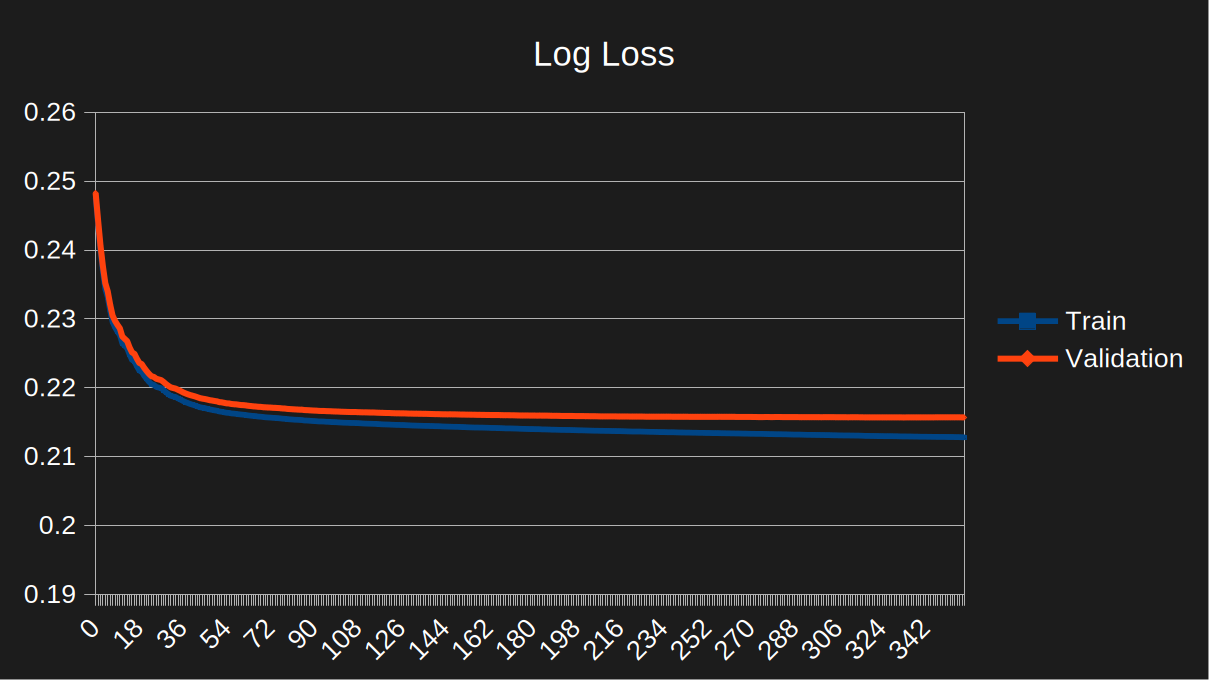
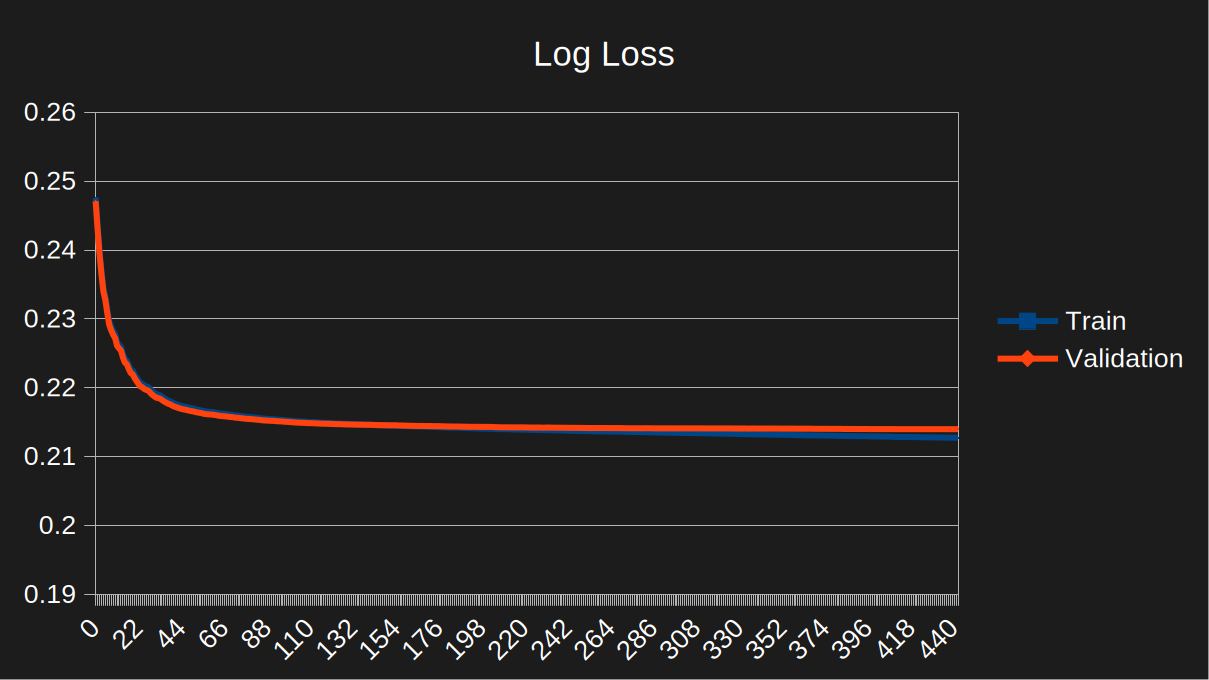
updated xgoals model to remove calibration and updated model results from the model update

Changed region(s): [[0.0612, 0.8647, 0.7957, 0.9882], [0.0612, 0.2779, 0.7957, 0.6485]]

diff --git a/backend/nhl/xgoals.py b/backend/nhl/xgoals.py
@@ -1,8 +1,6 @@
 from utility import REGISTRY, Table
 from sklearn.model_selection import train_test_split
 from sklearn.metrics import classification_report, confusion_matrix, roc_auc_score, log_loss
-from sklearn.calibration import CalibratedClassifierCV
-from sklearn.frozen import FrozenEstimator
 from xgboost.sklearn import XGBClassifier
 import joblib
 import numpy
@@ -12,7 +10,6 @@ class xGoals(Table):
     def request(self, params: dict = {}, train = False):
         params.update({"train": 'train'}) if train else params.update({"train": None})
         self.prefix = params.setdefault('type', None)
-        self.scale = params.setdefault('scale', None)
         params.setdefault('grace', 5)
         params.setdefault('decay', 1)
         super().request(params)
@@ -26,32 +23,26 @@ class xGoals(Table):
         input_train, input_validation, output_train, output_validation = train_test_split(
             data[:, 4:data.shape[1] - 1], 
             data[:, -1].astype(int), 
-            test_size=0.4
+            test_size=0.3
         )
 
         input_validation, input_test, output_validation, output_test = train_test_split(
-            input_validation, 
-            output_validation, 
-            test_size=0.25
-        )
-
-        input_validation, input_calibration, output_validation, output_calibration = train_test_split(
             input_validation, 
             output_validation, 
             test_size=0.5
         )
 
         model = XGBClassifier(
-            scale_pos_weight=float(self.scale) if self.scale else 1, # Balances class imbalances
+            scale_pos_weight=1, # Balances class imbalances (1 makes no change)
             eval_metric='logloss', # Performance evaluation metric
             reg_lambda=1, # Penalizes large weights
             max_depth=4, # Max tree depth. Higher depth risks overfitting
             learning_rate=0.1, # Shrinks each tree's contribution
-            n_estimators=500, # Number of trees to build
+            n_estimators=1000, # Number of trees to build
             subsample=0.8, # Fraction of training samples used per tree. Adds randomness by changing samples
             colsample_bytree=0.8, # Fraction of features used per sample. Adds randomness by changing sample features
             min_child_weight=10, # Min sum of weights in a child node
-            early_stopping_rounds=25 # Introduces early stopping if metric does not improve after n epochs
+            early_stopping_rounds=25 # Introduces early stopping if metric does not improve after n estimators
         )
         
         model.fit(
@@ -60,22 +51,15 @@ class xGoals(Table):
             eval_set=[ (input_train, output_train), (input_validation, output_validation) ]
         )
 
-        print('\n'.join(f"{feature}: {weight:.5f}" for feature, weight in sorted(zip([key for key in list(self.data[0].keys())[4:data.shape[1] - 1]], model.feature_importances_), key=lambda x: x[1], reverse=True)))
-
-        model = CalibratedClassifierCV(
-            FrozenEstimator(model),
-            method='isotonic'
-        )
-        
-        model.fit(input_calibration, output_calibration)
-
         predictions = model.predict(input_test)
         probabilities = model.predict_proba(input_test)
         
+        print('\n'.join(f"{feature}: {weight:.5f}" for feature, weight in sorted(zip([key for key in list(self.data[0].keys())[4:data.shape[1] - 1]], model.feature_importances_), key=lambda x: x[1], reverse=True)))
         print(classification_report(output_test, predictions))
         print(confusion_matrix(output_test, predictions))
         print("Loss:", log_loss(output_test, probabilities[:, 1]))
         print("ROC AUC:", roc_auc_score(output_test, probabilities[:, 1]))
+        print(f"Calibration: {(100 * probabilities[:, 1].sum() / output_test.sum()) - 100}%")
 
         joblib.dump(model, f"/models/{self.prefix}-xgoals.gz" if self.prefix else "/models/xgoals.gz")
         self.response.close()

diff --git a/README.md b/README.md
@@ -55,7 +55,7 @@ We have selected 20 features for our first xGoals model, all of which we feel ha
 | Y Flip         | If a shot and its previous event crossed the vector between both goals. |
 
 ## Model Pipeline
-In case you missed it from earlier, for our model we used the xGoals gold standard: XGBoost—we love how fitting that name is. Our pipeline is pretty basic, the main thing worth noting is that our data is split into four sets: 60% train, 15% for both validation and calibration, then 10% for our test set. Four splits seem a bit odd but it was necessary to avoid leakage of the test set data into our model during its calibration, so we added a dedicated calibration set. XGBoost can push probabilities toward the extremes, so calibration is necessary to ensure that these probabilities are pulled back to more realistic values.
+In case you missed it from earlier, for our model we used the xGoals gold standard: XGBoost—we love how fitting that name is. Our pipeline is pretty basic, the main thing worth noting is that our data is split into three sets: 70% train, 15% validation, and 15% test.
 
 The only other thing worth mentioning is that our pipeline can be pretty flexible when defining our scope of data to use for training. We can tell it to train one model for all situations or train situation-specific models, and we can tell it to use our full history of samples or to favor more recent samples. We narrowed things down to two approaches: all situations in one model, and three models split between full strength situations, special teams, and empty net situations.
 
@@ -64,9 +64,9 @@ Before we present our results, we want to set expectations by stating that our r
 
 Surprisingly, we found the best results came from one model for all situations and seasons. Perhaps there really should be "one model to rule them all." We added a few features to help the model distinguish different game situations—such as the shooting team's advantage, total skaters on the ice, and empty net status—so we feel confident that our model could accurately adjust for those changes in gameplay. One area for improvement is that all seasons were weighted equally, so there is a risk that seasons with API or rule changes affecting shot quality are misrepresented.
 
-We can see from the below graph that our model's training and validation loss converged closely and consistently, differing by just 0.003 log loss on the 358th iteration: ![Loss Curve](images/fit.png)
+We can see from the below graph that our model's training and validation loss converged closely and consistently, differing by just `0.001 Log Loss` on the best iteration: ![Loss Curve](images/fit.png)
 
-When testing the model on our test set, it achieved a `0.21468 Log Loss`, and a `0.78206 AUC`—which are the results we expect based on the training and validation set results. We also feel that this shows our model is competitive with some of the more reputable models that exist at the time of this writing, especially when we consider the limitations we placed on our feature set.
+When testing the model on our test set, it achieved a `0.21439 Log Loss`, `0.78043 AUC`, and a `100.45% Calibration`—which are the results we expect based on the training and validation set results. We also feel that this shows our model is competitive with some of the more reputable models that exist at the time of this writing, especially when we consider the limitations we placed on our feature set.
 
 As for our feature importances, we see the same pattern as many other models. Empty nets, rebounds, and shot distance are our most important features. We also noticed that the model found the count of total skaters on the ice to be the fourth most important feature, which suggests it appropriately adjusts for the diversity in strengths. If you need a reference as to what each feature means, please reference our [Feature Dictionary](#feature-dictionary) that was presented earlier. ![Feature Importances](images/importance.png)
 
@@ -75,86 +75,86 @@ Finally, we will present the seasonal results of our model. Unfortunately, these
 **All Strengths:**
 | Season | Difference | Calibration | Log Loss | AUC |
 |--------|------------|-------------|----------|-----|
-|20252026| 247.78     | 2.81        | 0.237    |0.756|
-|20242025| -156.46    | -1.82       | 0.227    |0.768|
-|20232024| -6.37      | -0.07       | 0.224    |0.77 |
-|20222023| 90.39      | 1           | 0.232    |0.763|
-|20212022| -71.99     | -0.81       | 0.223    |0.767|
-|20202021| -164.23    | -2.91       | 0.218    |0.781|
-|20192020| -83.91     | -1.14       | 0.218    |0.778|
-|20182019| -433.02    | -5.25       | 0.219    |0.774|
-|20172018| -289.71    | -3.54       | 0.218    |0.775|
-|20162017| -48.57     | -0.66       | 0.216    |0.779|
-|20152016| 28.17      | 0.39        | 0.213    |0.782|
-|20142015| 0.68       | 0.01        | 0.208    |0.778|
-|20132014| -45.22     | -0.6        | 0.21     |0.779|
-|20122013| -78.69     | -1.76       | 0.209    |0.777|
-|20112012| -32.02     | -0.43       | 0.207    |0.784|
-|20102011| 14.99      | 0.2         | 0.216    |0.778|
+|20252026| 340.83     | 3.86        | 0.236    |0.768|
+|20242025| -60.55     | -0.7        | 0.226    |0.779|
+|20232024| 85.79      | 0.98        | 0.223    |0.782|
+|20222023| 185.47     | 2.05        | 0.231    |0.774|
+|20212022| 9.7        | 0.11        | 0.223    |0.779|
+|20202021| -112.72    | -2          | 0.217    |0.792|
+|20192020| -16.67     | -0.23       | 0.218    |0.79 |
+|20182019| -363.25    | -4.4        | 0.218    |0.786|
+|20172018| -217.03    | -2.65       | 0.217    |0.786|
+|20162017| 10.36      | 0.14        | 0.215    |0.789|
+|20152016| 86.62      | 1.19        | 0.212    |0.792|
+|20142015| 51.65      | 0.7         | 0.207    |0.789|
+|20132014| 0.09       | 0           | 0.208    |0.79 |
+|20122013| -51.21     | -1.14       | 0.208    |0.787|
+|20112012| 20.96      | 0.28        | 0.206    |0.795|
+|20102011| 65.35      | 0.87        | 0.215    |0.789|
 
 **Full Strength (5v5 with both goalies) Results:**
 | Season | Difference | Calibration | Log Loss | AUC |
 |--------|------------|-------------|----------|-----|
-|20252026| 9.26       | 0.16        | 0.21     |0.752|
-|20242025| -94.87     | -1.7        | 0.2      |0.762|
-|20232024| -57.09     | -1.01       | 0.199    |0.768|
-|20222023| 129.3      | 2.23        | 0.207    |0.757|
-|20212022| -34.16     | -0.58       | 0.201    |0.76 |
-|20202021| -50.13     | -1.36       | 0.194    |0.777|
-|20192020| -32.88     | -0.69       | 0.195    |0.774|
-|20182019| -207.84    | -3.84       | 0.192    |0.771|
-|20172018| -100.03    | -1.92       | 0.192    |0.768|
-|20162017| 29.41      | 0.61        | 0.194    |0.774|
-|20152016| 106.12     | 2.32        | 0.19     |0.775|
-|20142015| -21.63     | -0.46       | 0.185    |0.77 |
-|20132014| -56.41     | -1.19       | 0.188    |0.77 |
-|20122013| -12.4      | -0.43       | 0.187    |0.768|
-|20112012| -7.09      | -0.15       | 0.186    |0.775|
-|20102011| -4.53      | -0.1        | 0.187    |0.776|
+|20252026| 50.27      | 0.89        | 0.209    |0.764|
+|20242025| -47.81     | -0.86       | 0.199    |0.773|
+|20232024| -8.27      | -0.15       | 0.198    |0.78 |
+|20222023| 175.17     | 3.02        | 0.207    |0.768|
+|20212022| 4.56       | 0.08        | 0.201    |0.772|
+|20202021| -25.51     | -0.69       | 0.193    |0.788|
+|20192020| -0.39      | -0.01       | 0.195    |0.786|
+|20182019| -169.22    | -3.13       | 0.191    |0.782|
+|20172018| -65.43     | -1.26       | 0.19     |0.779|
+|20162017| 58.37      | 1.22        | 0.193    |0.785|
+|20152016| 133.09     | 2.92        | 0.189    |0.785|
+|20142015| 6.72       | 0.14        | 0.185    |0.781|
+|20132014| -29.22     | -0.62       | 0.186    |0.782|
+|20122013| 2.37       | 0.08        | 0.186    |0.779|
+|20112012| 21.71      | 0.46        | 0.185    |0.785|
+|20102011| 21.97      | 0.46        | 0.186    |0.786|
 
 **Special Teams (all strengths except full strength and empty net) Results:**
 | Season | Difference | Calibration | Log Loss | AUC |
 |--------|------------|-------------|----------|-----|
-|20252026| 205.06     | 7.84        | 0.31     |0.693|
-|20242025| -48.84     | -1.98       | 0.31     |0.698|
-|20232024| 68.28      | 2.58        | 0.298    |0.706|
-|20222023| -24.73     | -0.9        | 0.303    |0.711|
-|20212022| 2.25       | 0.09        | 0.291    |0.713|
-|20202021| -89.71     | -5.42       | 0.29     |0.727|
-|20192020| -64.39     | -2.9        | 0.282    |0.732|
-|20182019| -191.98    | -7.98       | 0.302    |0.712|
-|20172018| -164.31    | -6.35       | 0.301    |0.729|
-|20162017| -62.75     | -2.75       | 0.289    |0.73 |
-|20152016| -47.76     | -2.06       | 0.283    |0.735|
-|20142015| 30.4       | 1.29        | 0.275    |0.746|
-|20132014| 7.2        | 0.29        | 0.272    |0.751|
-|20122013| -53.31     | -3.66       | 0.278    |0.749|
-|20112012| 0.81       | 0.03        | 0.268    |0.761|
-|20102011| 19.38      | 0.76        | 0.275    |0.742|
+|20252026| 243.02     | 9.3         | 0.31     |0.709|
+|20242025| -16.3      | -0.66       | 0.308    |0.714|
+|20232024| 99.09      | 3.75        | 0.298    |0.722|
+|20222023| 11.85      | 0.43        | 0.302    |0.727|
+|20212022| 38.74      | 1.51        | 0.291    |0.728|
+|20202021| -69.14     | -4.18       | 0.289    |0.742|
+|20192020| -40.21     | -1.81       | 0.282    |0.747|
+|20182019| -168.05    | -6.99       | 0.299    |0.727|
+|20172018| -137.36    | -5.31       | 0.3      |0.744|
+|20162017| -38.37     | -1.68       | 0.288    |0.745|
+|20152016| -23.29     | -1          | 0.282    |0.749|
+|20142015| 44.11      | 1.88        | 0.274    |0.759|
+|20132014| 19.88      | 0.79        | 0.272    |0.766|
+|20122013| -43.8      | -3.01       | 0.277    |0.761|
+|20112012| 18.56      | 0.76        | 0.267    |0.775|
+|20102011| 37.22      | 1.46        | 0.273    |0.756|
 
 **Empty Net (all strengths shooting on an empty net) Results:**
 | Season | Difference | Calibration | Log Loss | AUC |
 |--------|------------|-------------|----------|-----|
-|20252026| 33.47      | 6.13        | 0.789    |0.729|
-|20242025| -12.74     | -2.24       | 0.725    |0.658|
-|20232024| -17.56     | -3.62       | 0.742    |0.683|
-|20222023| -14.18     | -3.06       | 0.749    |0.677|
-|20212022| -40.08     | -7.71       | 0.655    |0.622|
-|20202021| -24.39     | -8.35       | 0.91     |0.582|
-|20192020| 13.37      | 3.75        | 0.844    |0.61 |
-|20182019| -33.2      | -7.56       | 0.877    |0.616|
-|20172018| -25.37     | -6.57       | 0.617    |0.567|
-|20162017| -15.24     | -4.85       | 0.584    |0.629|
-|20152016| -30.19     | -7.64       | 0.583    |0.632|
-|20142015| -8.09      | -2.56       | 0.679    |0.573|
-|20132014| 4.99       | 2.01        | 0.599    |0.635|
-|20122013| -12.98     | -8.83       | 0.573    |0.64 |
-|20112012| -25.73     | -10.05      | 0.595    |0.598|
-|20102011| 0.14       | 0.06        | 0.603    |0.597|
+|20252026| 47.53      | 8.71        | 0.789    |0.789|
+|20242025| 3.56       | 0.63        | 0.713    |0.758|
+|20232024| -5.03      | -1.04       | 0.737    |0.752|
+|20222023| -1.56      | -0.34       | 0.742    |0.75 |
+|20212022| -33.6      | -6.46       | 0.655    |0.718|
+|20202021| -18.08     | -6.19       | 0.903    |0.669|
+|20192020| 23.93      | 6.72        | 0.844    |0.688|
+|20182019| -25.99     | -5.92       | 0.88     |0.697|
+|20172018| -14.24     | -3.69       | 0.62     |0.649|
+|20162017| -9.64      | -3.07       | 0.578    |0.718|
+|20152016| -23.18     | -5.87       | 0.576    |0.74 |
+|20142015| 0.82       | 0.26        | 0.62     |0.671|
+|20132014| 10.43      | 4.21        | 0.591    |0.729|
+|20122013| -9.78      | -6.65       | 0.555    |0.757|
+|20112012| -19.31     | -7.54       | 0.582    |0.722|
+|20102011| 6.16       | 2.54        | 0.606    |0.697|
 
-Unfortunately, we see a possible pattern that the best results are coming from older seasons, and recent seasons seem to be less reliable. This tells us we should train a separate model that favors samples from recent seasons over older ones and update our xGoals for recent seasons using that model. Our model performs best at full strength, and worst at empty net situations. However, since special teams make up so many more shots than empty net situations, we should focus our attention on improving our special teams results. There is plenty of room for improvement. But for our first xGoals model, we think these are acceptable results. We will be making improvements that are beyond the scope of this article, with a prioritization on enhancing our model for recent seasons.
+Unfortunately, we see a pattern that the best results are coming from older seasons, and recent seasons seem to be less reliable. This indicates that we should build separate models for different seasons so our website's xGoals can better represent shot quality—which likely has been done by the time you read this! Our model performs best at full strength, and worst at empty net situations. However, since special teams make up so many more shots than empty net situations, we should focus our attention on improving our special teams results. There is plenty of room for improvement. But for our first xGoals model, we think these are acceptable results. We will be making improvements that are beyond the scope of this article, with a prioritization on enhancing our model for recent seasons.
 
-Notably, this model that is built purely on shot-intrinsic features may also serve as a baseline for testing our [Bold Claim](#the-bold-claim). A natural next step would be to train a comparison model that includes our excluded features, and use both models to test if shot quality really can be misrepresented by our excluded features. Thank you for reading, and please let us know what you think at connect@hockeyanalytica.com.
+Notably, this model built purely on shot-intrinsic features may also serve as a baseline for testing our [Bold Claim](#the-bold-claim). A natural next step would be to train a comparison model that includes our excluded features, and use both models to test if shot quality really can be misrepresented by our excluded features. Thank you for reading, and please let us know what you think at connect@hockeyanalytica.com.
 
 # Developers
 This repository is (mostly) a copy + paste of the actual code used by the server running [hockeyanalytica.com](https://hockeyanalytica.com/). Irrelevant directories and files have been removed and modifications have been made to potentially sensitive information, but everything used for our xGoals model is an exact copy.
@@ -222,7 +222,7 @@ Both the [train](backend/train.py) and [main](backend/main.py) modules support i
 
 ```bash
 # Training
-python -m train xgoals '{"type": "string", "scale": float, "decay": float}'
+python -m train xgoals '{"type": "string", "grace": integer, "decay": float}'
 
 # Inference
 python -m main xgoals '{"type": "string"}'
@@ -234,8 +234,8 @@ python -m main xgoals '{"type": "string"}'
 | type      | "fs"   | Sets the models scope to 5 on 5 situations with both goalies. |
 | type      | "st"   | Sets the models scope to all situations except full strength and empty net situations. |
 | type      | "en"   | Sets the models scope to only empty net situations. |
-| scale     | 1+     | Weights imbalanced classes so the occurances of the minority class more closely matches the occurances of the majority class. Scale of 1 means keep the natural distribution of classes. 1 is the default. |
-| decay     | 0-1    | Determines the decay rate of samples pulled from later seasons. Decay of 1 means all samples of all seasons are used for training. Lower decay rates means older seasons are exponentially smaller. 1 is the default. |
+| decay     | 0-1    | Determines the decay rate of samples pulled from older seasons. Decay of 1 means all samples of all seasons are used for training. Lower decay rates means older seasons are exponentially smaller. 1 is the default. |
+| grace     | int    | Determines how many seasons will get to keep their full set of samples before we start to remove/decay samples. 5 is the default (5 most recent seasons). |
 
 The [config.json](backend/config.json) file is used to set each model's configurations, including the SQL query used to source data for the model. All transformations for the model's data are done inside this SQL query. To examine or modify the features used in our model, find the `query` key for `xgoals` inside [config.json](backend/config.json).
 
